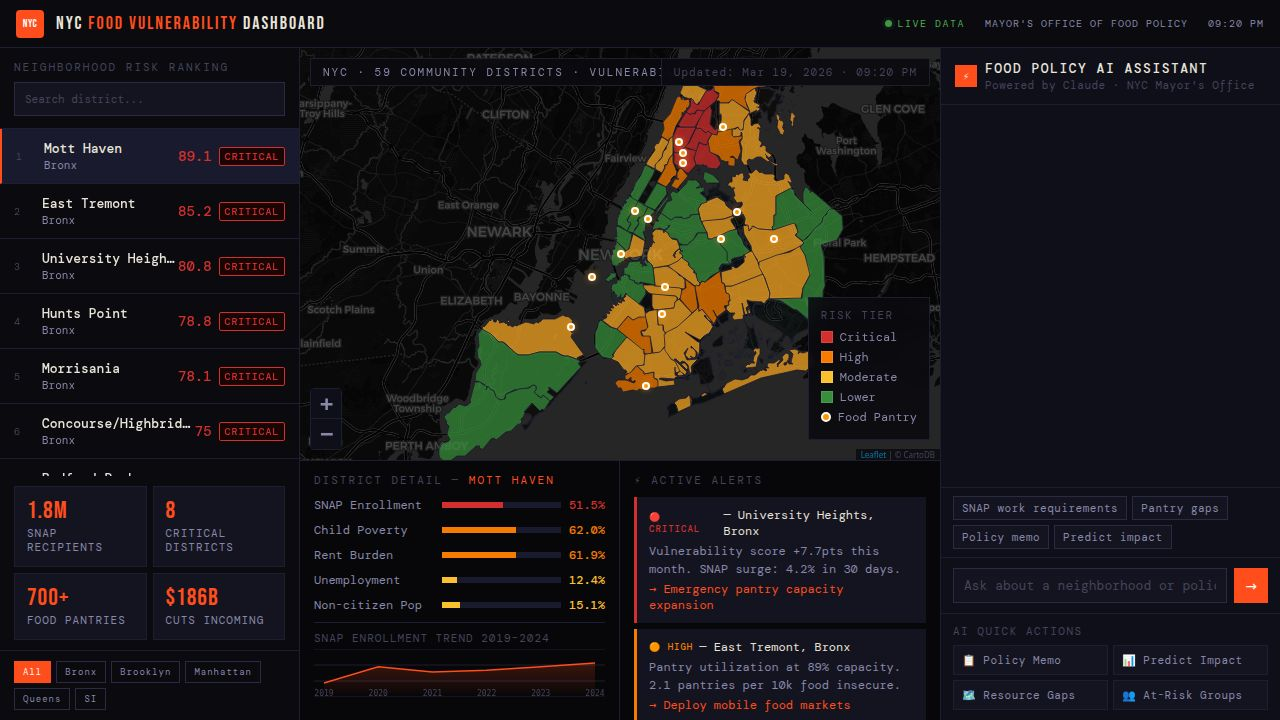
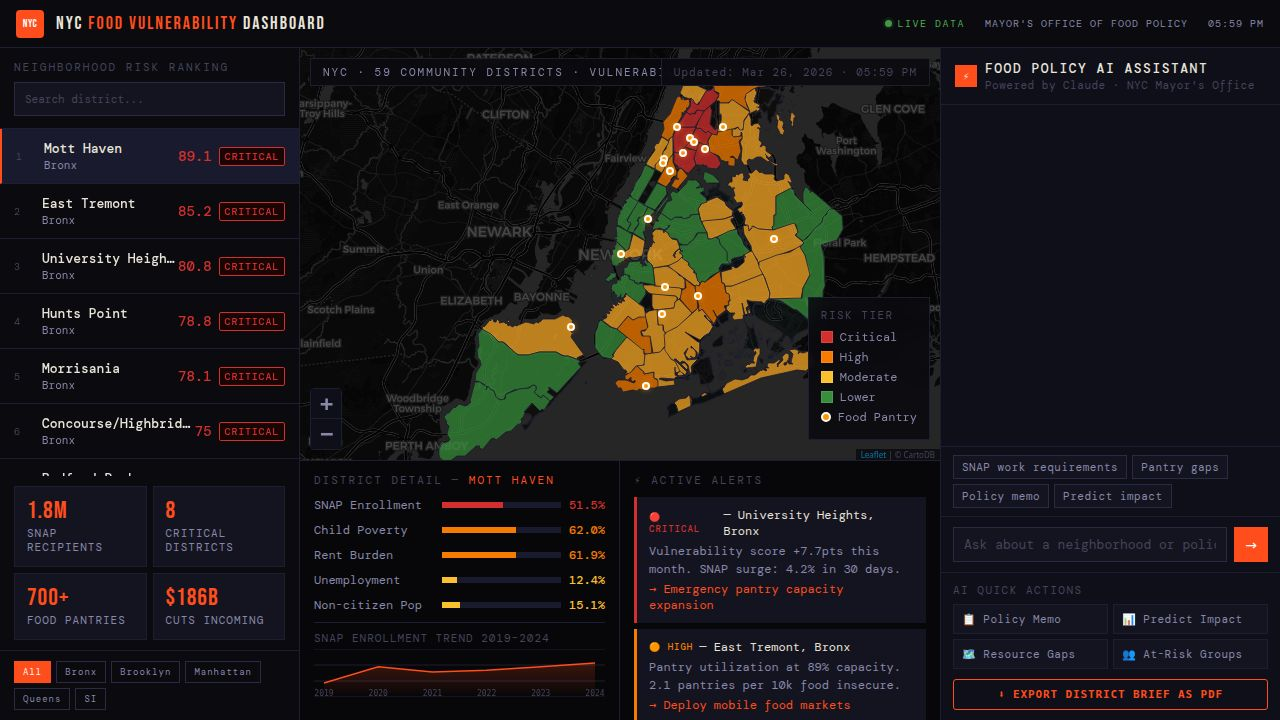
Add PDF export functionality and enhance AI context with district data
Adds a PDF export button to the dashboard for saving reports and enhances the AI prompt system to include detailed live district data for more informed responses.

Replit-Commit-Author: Agent
Replit-Commit-Session-Id: 950fcc14-e024-4c26-a2e2-bb4b43078381
Replit-Commit-Checkpoint-Type: full_checkpoint
Replit-Commit-Event-Id: 7700aea5-f692-4312-adc1-d26d56178d12
Replit-Commit-Screenshot-Url: https://storage.googleapis.com/screenshot-production-us-central1/3ff5a9f9-b8b0-4795-b6a7-0e07bee9cb3d/950fcc14-e024-4c26-a2e2-bb4b43078381/3DY94IO
Replit-Helium-Checkpoint-Created: true

diff --git a/index.html b/index.html
@@ -797,6 +797,127 @@ html, body {
   color: var(--text-dim) !important;
   font-size: 8px !important;
 }
+
+/* ── PDF EXPORT BUTTON ──────────────────────────────────────────────────────── */
+.export-btn {
+  width: 100%;
+  margin-top: 10px;
+  padding: 8px 12px;
+  background: transparent;
+  border: 1px solid #ff4d1c;
+  color: #ff4d1c;
+  font-family: 'IBM Plex Mono', monospace;
+  font-size: 11px;
+  font-weight: 600;
+  letter-spacing: 0.08em;
+  cursor: pointer;
+  border-radius: 3px;
+  transition: background 0.15s, color 0.15s;
+}
+.export-btn:hover { background: #ff4d1c; color: #fff; }
+
+/* ── PRINT / PDF STYLES ─────────────────────────────────────────────────────── */
+@media print {
+  * { -webkit-print-color-adjust: exact; print-color-adjust: exact; }
+  body { background: #fff !important; }
+  #app, header, #sidebar, #main-map, #ai-panel, .bottom-panels { display: none !important; }
+  #print-report { display: block !important; }
+}
+#print-report {
+  display: none;
+  font-family: 'IBM Plex Mono', 'Courier New', monospace;
+  color: #111;
+  padding: 40px;
+  max-width: 760px;
+  margin: 0 auto;
+}
+#print-report .pr-header {
+  border-bottom: 3px solid #111;
+  padding-bottom: 14px;
+  margin-bottom: 24px;
+}
+#print-report .pr-agency {
+  font-size: 10px;
+  letter-spacing: 0.12em;
+  text-transform: uppercase;
+  color: #555;
+}
+#print-report .pr-title {
+  font-size: 22px;
+  font-weight: 700;
+  margin: 6px 0 2px;
+}
+#print-report .pr-meta {
+  font-size: 10px;
+  color: #777;
+}
+#print-report .pr-score-block {
+  display: flex;
+  align-items: center;
+  gap: 24px;
+  background: #f5f5f5;
+  border-left: 5px solid #d32f2f;
+  padding: 16px 20px;
+  margin-bottom: 24px;
+}
+#print-report .pr-score-block.tier-High { border-color: #f57c00; }
+#print-report .pr-score-block.tier-Moderate { border-color: #f9a825; }
+#print-report .pr-score-block.tier-Lower { border-color: #388e3c; }
+#print-report .pr-score-num { font-size: 48px; font-weight: 700; line-height: 1; }
+#print-report .pr-score-label { font-size: 11px; color: #555; text-transform: uppercase; letter-spacing: 0.08em; }
+#print-report .pr-tier-badge {
+  display: inline-block;
+  padding: 4px 10px;
+  font-size: 11px;
+  font-weight: 700;
+  letter-spacing: 0.1em;
+  border-radius: 3px;
+  margin-top: 4px;
+}
+#print-report .pr-section-title {
+  font-size: 11px;
+  font-weight: 700;
+  letter-spacing: 0.12em;
+  text-transform: uppercase;
+  border-bottom: 1px solid #ddd;
+  padding-bottom: 4px;
+  margin: 24px 0 12px;
+}
+#print-report .pr-indicator-row {
+  display: flex;
+  justify-content: space-between;
+  align-items: center;
+  padding: 6px 0;
+  border-bottom: 1px solid #f0f0f0;
+  font-size: 12px;
+}
+#print-report .pr-indicator-val { font-weight: 700; }
+#print-report .pr-bar-bg {
+  flex: 1;
+  height: 6px;
+  background: #e0e0e0;
+  margin: 0 12px;
+  border-radius: 3px;
+  overflow: hidden;
+}
+#print-report .pr-bar-fill { height: 100%; background: #d32f2f; border-radius: 3px; }
+#print-report .pr-memo {
+  background: #f9f9f9;
+  border: 1px solid #ddd;
+  padding: 16px 20px;
+  font-size: 12px;
+  line-height: 1.7;
+  white-space: pre-wrap;
+}
+#print-report .pr-footer {
+  margin-top: 40px;
+  font-size: 9px;
+  color: #999;
+  border-top: 1px solid #ddd;
+  padding-top: 10px;
+  display: flex;
+  justify-content: space-between;
+}
 </style>
 </head>
 <body>
@@ -932,11 +1053,15 @@ html, body {
           <button class="qa-btn" onclick="sendChip('Find the neighborhoods with the worst pantry resource gaps')">🗺 Resource Gaps</button>
           <button class="qa-btn" onclick="sendChip('Which populations are most at risk from eligibility changes?')">👥 At-Risk Groups</button>
         </div>
+        <button class="export-btn" onclick="exportPDF()">⬇ EXPORT DISTRICT BRIEF AS PDF</button>
       </div>
     </aside>
 
   </div>
 </div>
+
+<!-- PRINT REPORT — hidden on screen, shown only when printing -->
+<div id="print-report"></div>
 
 <script>
 // ── REAL DATA (from vulnerability_scores.json) ────────────────────────────────
@@ -1390,7 +1515,14 @@ async function sendMessage() {
       headers: { 'Content-Type': 'application/json' },
       body: JSON.stringify({
         messages: chatHistory,
-        district: selectedDistrict?.cd_name || null
+        district: selectedDistrict?.cd_name || null,
+        districtData: selectedDistrict ? {
+          name:               selectedDistrict.cd_name,
+          borough:            selectedDistrict.borough,
+          vulnerability_score: selectedDistrict.vulnerability_score,
+          risk_tier:          selectedDistrict.risk_tier,
+          indicators:         selectedDistrict.indicators
+        } : null
       })
     });
 
@@ -1428,6 +1560,75 @@ function initChat() {
     🟠 10 High risk districts<br>
     ⚠ Federal SNAP cuts: $186B reduction incoming<br><br>
     Ask me about any neighborhood, policy impact, or request a report.`, false);
+}
+
+// ── PDF EXPORT ────────────────────────────────────────────────────────────────
+function exportPDF() {
+  const d = selectedDistrict;
+  if (!d) {
+    alert('Please select a district first by clicking a neighborhood on the map or list.');
+    return;
+  }
+
+  const ind = d.indicators;
+  const tierColors = { Critical: '#d32f2f', High: '#f57c00', Moderate: '#f9a825', Lower: '#388e3c' };
+  const tierColor  = tierColors[d.risk_tier] || '#555';
+
+  // Grab last AI message text (strip HTML tags for clean print)
+  const aiMsgs = document.querySelectorAll('.msg-ai .msg-bubble');
+  const lastAI = aiMsgs.length
+    ? aiMsgs[aiMsgs.length - 1].innerText
+    : 'No AI analysis generated yet. Use the AI assistant to generate a policy memo, then export.';
+
+  const indicators = [
+    { label: 'SNAP Enrollment',    val: ind.snap_household_pct,  weight: '35%' },
+    { label: 'Child Poverty',      val: ind.child_poverty_pct,   weight: '20%' },
+    { label: 'Rent Burden',        val: ind.rent_burden_pct,     weight: '20%' },
+    { label: 'Unemployment',       val: ind.unemployment_pct,    weight: '15%' },
+    { label: 'Non-citizen Pop.',   val: ind.noncitizen_pct,      weight: '10%' },
+  ];
+
+  const indRows = indicators.map(i => `
+    <div class="pr-indicator-row">
+      <span>${i.label} <span style="color:#999;font-size:10px">(${i.weight})</span></span>
+      <div class="pr-bar-bg">
+        <div class="pr-bar-fill" style="width:${Math.min(i.val, 100)}%;background:${tierColor}"></div>
+      </div>
+      <span class="pr-indicator-val">${i.val}%</span>
+    </div>`).join('');
+
+  document.getElementById('print-report').innerHTML = `
+    <div class="pr-header">
+      <div class="pr-agency">NYC Mayor's Office of Food Policy · Community District Report</div>
+      <div class="pr-title">${d.cd_name}, ${d.borough}</div>
+      <div class="pr-meta">Generated: ${new Date().toLocaleDateString('en-US',{weekday:'long',year:'numeric',month:'long',day:'numeric'})} · NYC Food Insecurity Vulnerability Dashboard</div>
+    </div>
+
+    <div class="pr-score-block tier-${d.risk_tier}">
+      <div>
+        <div class="pr-score-label">Vulnerability Score</div>
+        <div class="pr-score-num">${d.vulnerability_score}</div>
+      </div>
+      <div>
+        <div class="pr-score-label">Risk Tier</div>
+        <div class="pr-tier-badge" style="background:${tierColor};color:#fff">${d.risk_tier.toUpperCase()}</div>
+        <div class="pr-score-label" style="margin-top:8px">Community District ${d.fips}</div>
+      </div>
+    </div>
+
+    <div class="pr-section-title">Vulnerability Indicators</div>
+    ${indRows}
+
+    <div class="pr-section-title">AI Policy Analysis</div>
+    <div class="pr-memo">${lastAI}</div>
+
+    <div class="pr-footer">
+      <span>NYC Mayor's Office of Food Policy · Food Insecurity Vulnerability Dashboard</span>
+      <span>Confidential — Pre-decisional · ${new Date().toLocaleDateString()}</span>
+    </div>
+  `;
+
+  window.print();
 }
 
 // ── INIT ──────────────────────────────────────────────────────────────────────

diff --git a/main.py b/main.py
@@ -76,16 +76,32 @@ class DashboardHandler(http.server.SimpleHTTPRequestHandler):
 
         try:
             payload = json.loads(body)
-            messages = payload.get("messages", [])
-            district = payload.get("district")
+            messages     = payload.get("messages", [])
+            district     = payload.get("district")
+            district_data = payload.get("districtData")
 
             if not messages:
                 self._json_response(400, {"error": "messages array is required"})
                 return
 
-            # Optionally inject district context into the system prompt
+            # Inject full live indicator data so Claude cites real numbers
             system = SYSTEM_PROMPT
-            if district:
+            if district_data:
+                ind = district_data.get("indicators", {})
+                system += (
+                    f" CURRENTLY SELECTED DISTRICT: {district_data.get('name')} "
+                    f"({district_data.get('borough')}). "
+                    f"Vulnerability Score: {district_data.get('vulnerability_score')} "
+                    f"— {district_data.get('risk_tier')} tier. "
+                    f"Live indicators: "
+                    f"SNAP enrollment {ind.get('snap_household_pct')}%, "
+                    f"Child poverty {ind.get('child_poverty_pct')}%, "
+                    f"Rent burden {ind.get('rent_burden_pct')}%, "
+                    f"Unemployment {ind.get('unemployment_pct')}%, "
+                    f"Non-citizen population {ind.get('noncitizen_pct')}%. "
+                    f"Always cite these exact numbers when discussing this district."
+                )
+            elif district:
                 system += f" The user is currently viewing data for: {district}."
 
             # Call Anthropic using urllib (anthropic package not always importable
